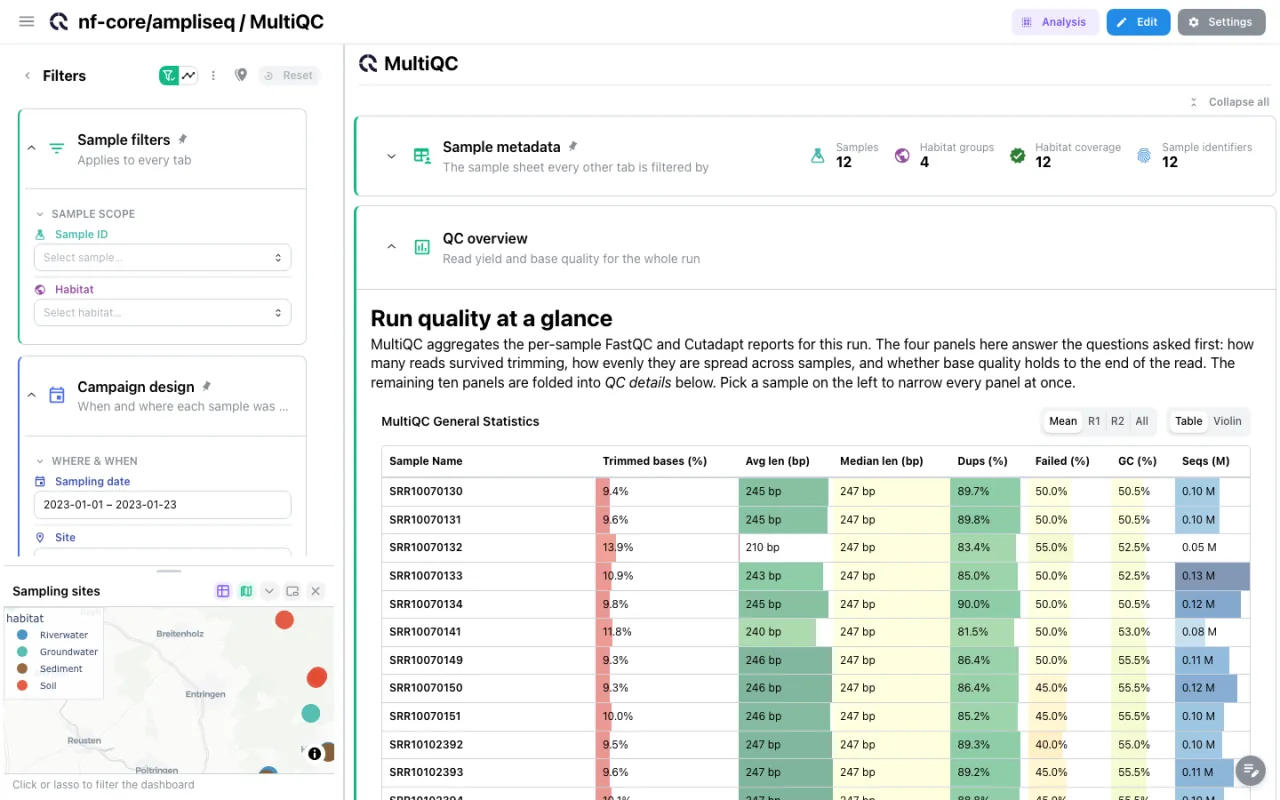
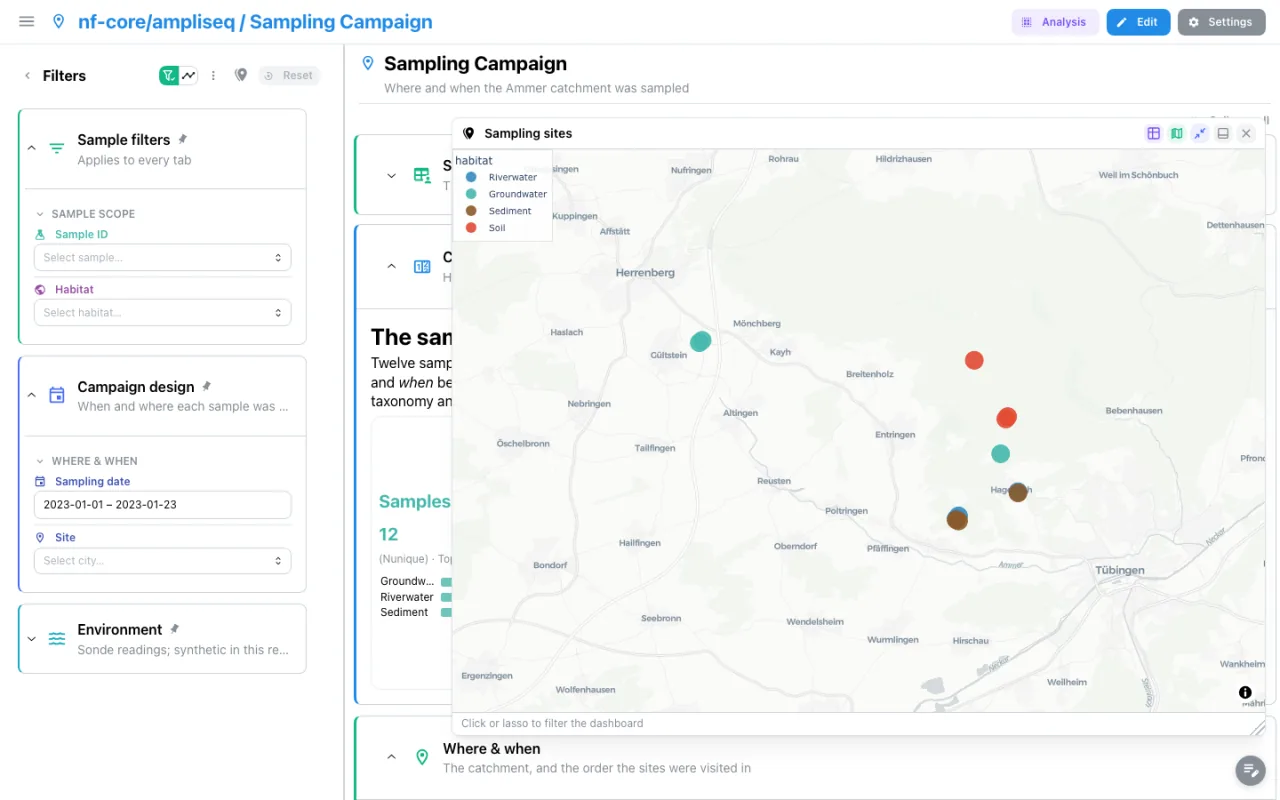
docs(landing): copy corrections, a continuous zigzag and a bigger map
A template stands the dashboards up too, not just the project. Uploaded
collections can be linked from the browser. The CLI reads a run wherever
it lives, cluster included. Image galleries are named. The validate
command is dropped. Branding covers the instance, not only the figures.

The stagger counted per group, and every group holds an odd number of
rows, so the visual landed on the same side across each heading. Groups
02 and 04 now carry .feature-group--offset and start one step in.

Map band reshot with the panel floating at 916x696 rather than docked in
the filter rail at 360x280.

Claude-Session: https://claude.ai/code/session_01Nf4c6hn9wbUq8buVF4tb3c

diff --git a/docs/index.md b/docs/index.md
@@ -289,7 +289,7 @@ hide:
       <div class="feature-row-text">
         <span class="feature-kicker"><img class="feature-kicker-logo" src="images/logo/templates_catalog_icon.webp" alt="" aria-hidden="true"><span>Project &amp; template</span></span>
         <h3>One pipeline, many runs, one place</h3>
-        <p>A project holds the workflows, the data collections and the dashboards that belong together. Declare it in a YAML file or build it from the browser, whichever suits the run. A template turns that declaration into a reusable recipe, so the same project stands up again from any run of the same pipeline.</p>
+        <p>A project holds the workflows, the data collections and the dashboards that belong together. Declare it in a YAML file or build it from the browser, whichever suits the run. A template turns that declaration into a reusable recipe: one command against a new run of the same pipeline and the whole thing stands up again, project, data collections and dashboards included, ready to read.</p>
         <span class="feature-links">
           <a class="feature-link" href="usage/projects/guide/">What a project is &rarr;</a>
           <a class="feature-link" href="usage/projects/templates/">Templates &rarr;</a>
@@ -307,7 +307,7 @@ hide:
       <div class="feature-row-text">
         <span class="feature-kicker"><svg xmlns="http://www.w3.org/2000/svg" viewBox="0 0 24 24" aria-hidden="true"><path d="M9,16V10H5L12,3L19,10H15V16H9M5,20V18H19V20H5Z"/></svg><span>Upload</span></span>
         <h3>Or just drop the file in</h3>
-        <p>No pipeline to point at yet? Drop a CSV, TSV, Parquet or Feather file straight into a project from the browser, or a MultiQC report, and Depictio scans it and aggregates it into a Delta table for you. The collection is ready to build on without touching the CLI.</p>
+        <p>No pipeline to point at yet? Drop a CSV, TSV, Parquet or Feather file straight into a project from the browser, or a MultiQC report, and Depictio scans it and aggregates it into a Delta table for you. The collection is ready to build on without touching the CLI, and you can link two of them on a shared column from the same screen, so a filter on one reaches every component built on the other.</p>
         <a class="feature-link" href="usage/projects/guide/">Start a project &rarr;</a>
       </div>
     </article>
@@ -323,7 +323,7 @@ hide:
       <div class="feature-row-text">
         <span class="feature-kicker"><svg xmlns="http://www.w3.org/2000/svg" viewBox="0 0 24 24" aria-hidden="true"><path d="M5,20H19V18H5M19,9H15V3H9V9H5L12,16L19,9Z"/></svg><span>Ingest</span></span>
         <h3>Read where your data lives</h3>
-        <p>Point the CLI at a finished run and it scans the output on your own machine, pushing only the aggregated results, never the raw files. Smaller collections can be added straight from the browser instead. Either way the ingestion report says what was found, what was missing, and the parameters the pipeline ran with.</p>
+        <p>Point <code>depictio-cli</code> at a finished run, on your laptop or on the cluster where it landed, and it scans the output in place, pushing only the aggregated results, never the raw files. Smaller collections can be added straight from the browser instead. Either way the ingestion report says what was found, what was missing, and the parameters the pipeline ran with.</p>
         <a class="feature-link" href="depictio-cli/usage/">Ingest with the CLI &rarr;</a>
       </div>
     </article>
@@ -331,7 +331,7 @@ hide:
       </div>
     </div>
 
-    <div class="feature-group">
+    <div class="feature-group feature-group--offset">
       <h3 class="feature-group-title"><span class="feature-group-num">02</span><span>Build the dashboard</span><a class="feature-group-link" href="usage/guides/dashboard_creation/">Build a dashboard &rarr;</a></h3>
       <div class="feature-group-rows">
 
@@ -345,7 +345,7 @@ hide:
       <div class="feature-row-text">
         <span class="feature-kicker"><svg xmlns="http://www.w3.org/2000/svg" viewBox="0 0 24 24" aria-hidden="true"><path d="M13,3V9H21V3M13,21H21V11H13M3,21H11V15H3M3,13H11V3H3V13Z"/></svg><span>Build</span></span>
         <h3>Drag, drop, resize</h3>
-        <p>Every component sits on the same grid: drag one anywhere, pull its corner to resize it, and the cards around it move out of the way. Figures, tables, metric cards, images, maps, text, filters and MultiQC panels all behave the same way, and the layout is saved as you go. Nothing here needs code.</p>
+        <p>Every component sits on the same grid: drag one anywhere, pull its corner to resize it, and the cards around it move out of the way. Figures, tables, metric cards, image galleries, maps, text, filters and MultiQC panels all behave the same way, and the layout is saved as you go. Nothing here needs code.</p>
         <a class="feature-link" href="usage/guides/dashboard_creation/#add-a-component-to-the-dashboard">Add a component &rarr;</a>
       </div>
     </article>
@@ -403,7 +403,7 @@ hide:
       <div class="feature-row-text">
         <span class="feature-kicker"><svg xmlns="http://www.w3.org/2000/svg" viewBox="0 0 24 24" aria-hidden="true"><path d="M14,17H17V19H14V17M14,5H17V7H14V5M14,11H17V13H14V11M4,3H12A2,2 0 0,1 14,5V19A2,2 0 0,1 12,21H4A2,2 0 0,1 2,19V5A2,2 0 0,1 4,3M5,7V9H11V7H5M5,11V13H11V11H5M5,15V17H11V15H5M20,3A2,2 0 0,1 22,5V19A2,2 0 0,1 20,21H19V3H20Z"/></svg><span>YAML</span></span>
         <h3>Or write the dashboard as code</h3>
-        <p>Export any dashboard to a YAML file, review it in a pull request, and import it back into another instance. Sections, filters and every component are plain fields, and <code>depictio-cli dashboard validate</code> tells you whether it will land before you push it.</p>
+        <p>Export any dashboard to a YAML file, review it in a pull request, and import it back into another instance. Sections, filters and every component are plain fields, so a change to a dashboard reviews like any other change.</p>
         <a class="feature-link" href="features/yaml-sync/">Dashboards as YAML &rarr;</a>
       </div>
     </article>
@@ -495,7 +495,7 @@ hide:
     <article class="feature-row">
       <div class="feature-row-visual">
         <button type="button" class="feature-frame" aria-label="Enlarge the screenshot: a floating map panel">
-          <img src="images/landing/map_light.webp" alt="The map docked at the foot of the filter panel, beside the dashboard it filters" loading="lazy">
+          <img src="images/landing/map_light.webp" alt="The sampling-sites map floating over the dashboard, its points coloured by habitat" loading="lazy">
           <span class="feature-zoom" aria-hidden="true"><svg xmlns="http://www.w3.org/2000/svg" viewBox="0 0 24 24"><path d="M15.5,14L20.5,19L19,20.5L14,15.5V14.71L13.73,14.43C12.59,15.41 11.11,16 9.5,16A6.5,6.5 0 0,1 3,9.5A6.5,6.5 0 0,1 9.5,3A6.5,6.5 0 0,1 16,9.5C16,11.11 15.41,12.59 14.43,13.73L14.71,14H15.5M9.5,14C12,14 14,12 14,9.5C14,7 12,5 9.5,5C7,5 5,7 5,9.5C5,12 7,14 9.5,14M12,10H10V12H9V10H7V9H9V7H10V9H12V10Z"/></svg></span>
         </button>
       </div>
@@ -510,7 +510,7 @@ hide:
       </div>
     </div>
 
-    <div class="feature-group">
+    <div class="feature-group feature-group--offset">
       <h3 class="feature-group-title"><span class="feature-group-num">04</span><span>Run it, extend it</span><a class="feature-group-link" href="usage/administration/">Administration &rarr;</a></h3>
       <div class="feature-group-rows">
 
@@ -541,7 +541,7 @@ hide:
       <div class="feature-row-text">
         <span class="feature-kicker"><svg xmlns="http://www.w3.org/2000/svg" viewBox="0 0 24 24" aria-hidden="true"><path d="M12,15.5A3.5,3.5 0 0,1 8.5,12A3.5,3.5 0 0,1 12,8.5A3.5,3.5 0 0,1 15.5,12A3.5,3.5 0 0,1 12,15.5M19.43,12.97C19.47,12.65 19.5,12.33 19.5,12C19.5,11.67 19.47,11.34 19.43,11L21.54,9.37C21.73,9.22 21.78,8.95 21.66,8.73L19.66,5.27C19.54,5.05 19.27,4.96 19.05,5.05L16.56,6.05C16.04,5.66 15.5,5.32 14.87,5.07L14.5,2.42C14.46,2.18 14.25,2 14,2H10C9.75,2 9.54,2.18 9.5,2.42L9.13,5.07C8.5,5.32 7.96,5.66 7.44,6.05L4.95,5.05C4.73,4.96 4.46,5.05 4.34,5.27L2.34,8.73C2.21,8.95 2.27,9.22 2.46,9.37L4.57,11C4.53,11.34 4.5,11.67 4.5,12C4.5,12.33 4.53,12.65 4.57,12.97L2.46,14.63C2.27,14.78 2.21,15.05 2.34,15.27L4.34,18.73C4.46,18.95 4.73,19.03 4.95,18.95L7.44,17.94C7.96,18.34 8.5,18.68 9.13,18.93L9.5,21.58C9.54,21.82 9.75,22 10,22H14C14.25,22 14.46,21.82 14.5,21.58L14.87,18.93C15.5,18.67 16.04,18.34 16.56,17.94L19.05,18.95C19.27,19.03 19.54,18.95 19.66,18.73L21.66,15.27C21.78,15.05 21.73,14.78 21.54,14.63L19.43,12.97Z"/></svg><span>Operate</span></span>
         <h3>Run your own instance</h3>
-        <p>Depictio is meant to be self-hosted, and the admin panel is built for that: scheduled backups with a retention policy and a restore gated behind validation, tasks, ingestion runs, logs and service health in one view, users and groups, and branding down to the figure palette.</p>
+        <p>Depictio is meant to be self-hosted, and the admin panel is built for that: scheduled backups with a retention policy and a restore gated behind validation, tasks, ingestion runs, logs and service health in one view, users and groups, and branding that reaches the whole instance, its name, its logo, its palette, the login screen and the figures it renders.</p>
         <a class="feature-link" href="usage/administration/monitoring/">Monitoring and tasks &rarr;</a>
       </div>
     </article>
@@ -2273,7 +2273,10 @@ hide:
     text-decoration: underline;
   }
 
-  /* Staggered layout: the visual changes side on every other row */
+  /* Staggered layout: the visual changes side on every other row. Groups 02 and 04
+     open at an even position in the page-wide count, so they carry
+     .feature-group--offset and start the alternation one step in: without it the
+     zigzag restarts on the same side at every group heading. */
   @media (min-width: 900px) {
     .feature-flow {
       gap: 6.5rem;
@@ -2288,11 +2291,13 @@ hide:
       gap: 3.5rem;
     }
 
-    .feature-group-rows .feature-row:nth-child(even) .feature-row-visual {
+    .feature-group:not(.feature-group--offset) .feature-row:nth-child(even) .feature-row-visual,
+    .feature-group--offset .feature-row:nth-child(odd) .feature-row-visual {
       order: 2;
     }
 
-    .feature-group-rows .feature-row:nth-child(even) .feature-row-text {
+    .feature-group:not(.feature-group--offset) .feature-row:nth-child(even) .feature-row-text,
+    .feature-group--offset .feature-row:nth-child(odd) .feature-row-text {
       order: 1;
       justify-self: end;
     }
